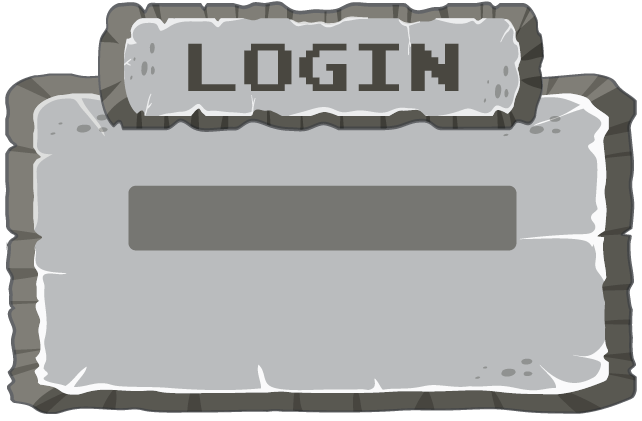
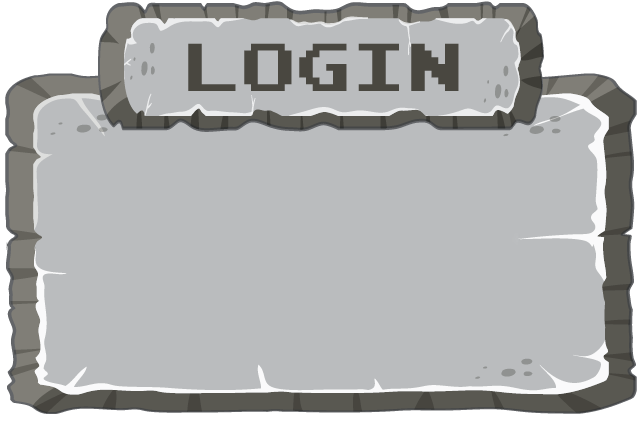
update: login screen

Changed region(s): [[0.1869, 0.4323, 0.81, 0.6176]]

diff --git a/core/src/com/cratemage/screen/Login.java b/core/src/com/cratemage/screen/Login.java
@@ -1,4 +1,4 @@
-package com.cratemage.controller;
+package com.cratemage.screen;
 
 import com.badlogic.gdx.Gdx;
 import com.badlogic.gdx.Screen;
@@ -7,6 +7,7 @@ import com.badlogic.gdx.scenes.scene2d.Actor;
 import com.badlogic.gdx.scenes.scene2d.Stage;
 import com.badlogic.gdx.scenes.scene2d.ui.Button;
 import com.badlogic.gdx.scenes.scene2d.ui.Skin;
+import com.badlogic.gdx.scenes.scene2d.ui.TextField;
 import com.badlogic.gdx.scenes.scene2d.utils.ChangeListener;
 import com.badlogic.gdx.utils.ScreenUtils;
 import com.cratemage.CrateMage;
@@ -14,23 +15,31 @@ import com.badlogic.gdx.graphics.g2d.SpriteBatch;
 import com.badlogic.gdx.audio.Music;
 import com.cratemage.screen.LevelSelectScreen;
 
+import javax.print.attribute.standard.MediaSize;
+
 public class Login implements Screen {
 
     SpriteBatch batch;
     CrateMage game;
     Stage stage;
     private Skin submitskin;
+    private Skin textSkin;
     private Music clickSound;
+    public String namePlayer;
 
     public Login(CrateMage game) {
         this.game = game;
         stage = new Stage();
         batch = new SpriteBatch();
         this.submitskin = new Skin(Gdx.files.internal("Login/submit.json"));
+        this.textSkin = new Skin(Gdx.files.internal("Login/nameText.json"));
         this.clickSound = Gdx.audio.newMusic(Gdx.files.internal("Sound/MouseClick.mp3")); // Đảm bảo âm thanh được khởi tạo
 
         Button submitButton = createSubmitButton();
         stage.addActor(submitButton); // Thêm button vào stage
+
+        TextField nameText = createNameText();
+        stage.addActor(nameText);
     }
 
     public Button createSubmitButton() {
@@ -49,6 +58,15 @@ public class Login implements Screen {
         });
 
         return submitButton;
+    }
+
+    public TextField createNameText() {
+        TextField nameText = new TextField("", textSkin);
+        nameText.setPosition(375, 325);
+        nameText.setSize(500, 75);
+        nameText.setMessageText("ENTER YOUR NAME");
+        nameText.setAlignment(1);
+        return nameText;
     }
 
     @Override

diff --git a/core/src/com/cratemage/screen/MenuScreen.java b/core/src/com/cratemage/screen/MenuScreen.java
@@ -13,7 +13,6 @@ import com.badlogic.gdx.graphics.OrthographicCamera;
 import com.badlogic.gdx.scenes.scene2d.Stage;
 import com.badlogic.gdx.utils.viewport.ScreenViewport;
 import com.cratemage.controller.ButtonManager;
-import com.cratemage.controller.Login;
 
 
 public class MenuScreen implements Screen {
